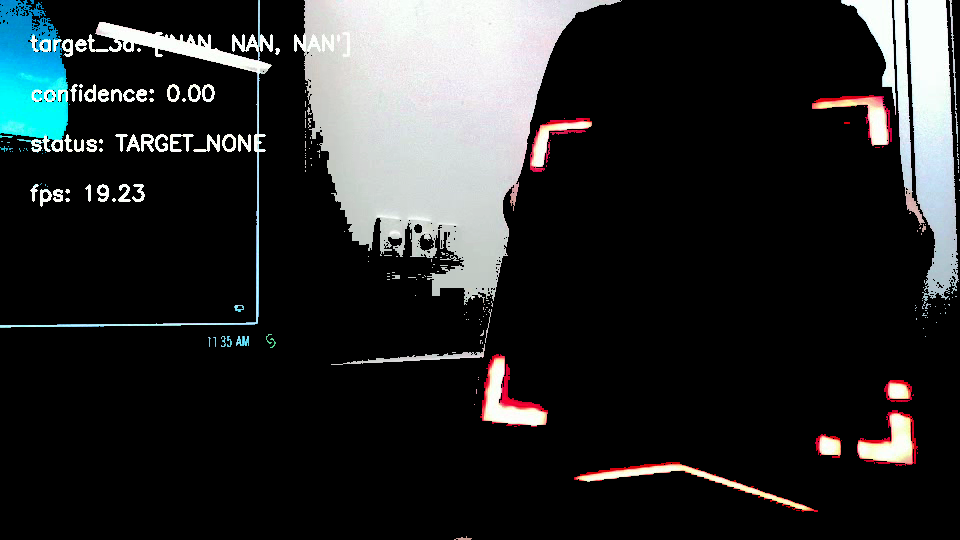
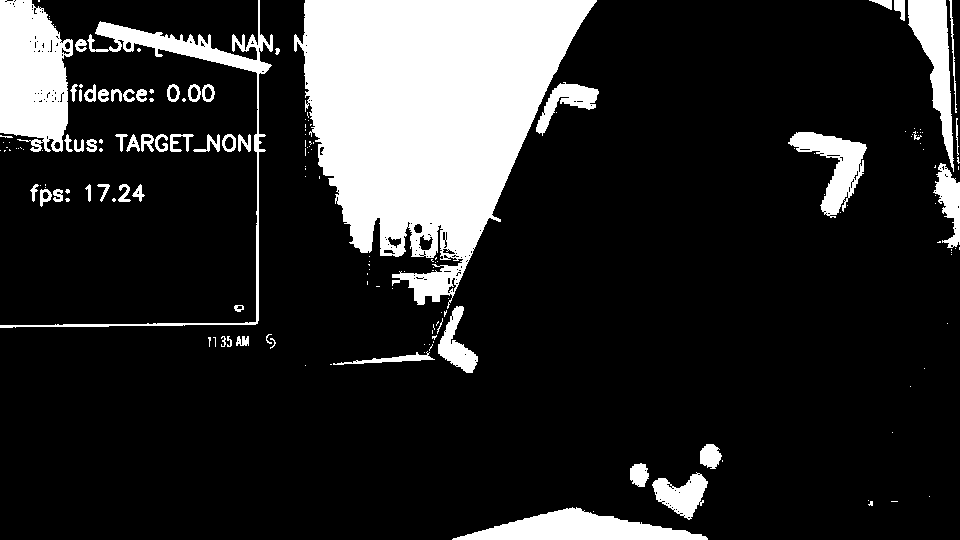
Update - Drew

diff --git a/main/subsystems/nugget_receptacle/receptacle_pose.py b/main/subsystems/nugget_receptacle/receptacle_pose.py
@@ -114,7 +114,6 @@ def find_contours_list(frame, is_grayscale=False, save_output=False): #TODO: rem
     return cv2.findContours(frame, cv2.RETR_LIST, cv2.CHAIN_APPROX_SIMPLE)
 
 
-
 def draw_center_of_mass_circles(frame, contours):
     for contour in contours:
         x, y, w, h = cv2.boundingRect(contour)
@@ -125,18 +124,21 @@ def draw_center_of_mass_circles(frame, contours):
         cx = int(moments['m10'] / moments['m00'])
         cy = int(moments['m01'] / moments['m00'])
 
-        cv2.circle(frame, (x, y),               5, (0,0,255),   1)
-        cv2.circle(frame, (cx, cy),             5, (0,255,255), 1)
-        cv2.circle(frame, (center_x, center_y), 5, (255,0,0),   1)
+        cv2.circle(frame, (x, y),               5, (0,0,255),   1) # red
+        cv2.circle(frame, (cx, cy),             8, (13,128,255), 2) # yellowish
         cv2.line(frame, (center_x, center_y), (cx, cy), (0, 255, 0), 2)
+        cv2.circle(frame, (center_x, center_y), 6, (255,100,100),   2) # blue
 
+        cv2.rectangle(frame, cv2.boundingRect(contour), (0, 0, 200), 1) 
+    
     return frame
 
-def is_l_shape(contour, max_x_percent = 0.05, max_y_percent = 0.05) -> bool:
+
+def is_l_shape(contour, min_x_percent = 0.05, min_y_percent = 0.05, or_=False) -> tuple:
     """ 
-    Returns bool on whether contour is an l shape and confidence. 
-    max_x_percent and max_y_percent are the maximum percentage of the bounding box that 
-    the center of mass can be off before it's considered an l.
+    Returns bool, x_diff_percent, y_diff_percent on whether contour is an l shape and confidence. 
+    min_x_percent and min_y_percent are the minimum percentage of the bounding box that 
+    the center of mass can be off to be considered an L shape.
     """
     #up-right bounding rectangle
     x, y, w, h = cv2.boundingRect(contour)
@@ -152,15 +154,17 @@ def is_l_shape(contour, max_x_percent = 0.05, max_y_percent = 0.05) -> bool:
     percent_off_x = (cx - center_x)/w # TODO: Maybe figure out a way to do floor division (faster?)
     percent_off_y = (cy - center_y)/h
 
-    #print(f"x={center_x}, y={center_y}, cx={cx}, cy={cy}, x_size={w}, y_size={h}")
-    print(f"x={center_x}, y={center_y}, cx is {percent_off_x*100 :.2f}% off, cy is {percent_off_y*100 :.2f}% off.")
+    if __name__ == "__main__":
+        #print(f"x={center_x}, y={center_y}, cx={cx}, cy={cy}, x_size={w}, y_size={h}")
+        print(f"x={center_x}, y={center_y}, cx is {percent_off_x*100 :.2f}% off, cy is {percent_off_y*100 :.2f}% off.")
 
-    return not((abs(percent_off_x)<=max_x_percent) and (abs(percent_off_y)<=max_y_percent))
+    is_l = (abs(percent_off_x)>min_x_percent) and (abs(percent_off_y)>min_y_percent) or (
+        (or_)
+        and ((abs(percent_off_x)>min_x_percent) or (abs(percent_off_y)>min_y_percent)))
+    return is_l, percent_off_x, percent_off_y
 
-    
 
-
-def filter_contours(contours:list, screensize=(1920,1024)):
+def filter_contours(contours:list, screensize=(1920,1024), filter_l=False):
     """ Filters a given list of contours by ones that are likely the receptacle. """
     # The below code was modified from https://stackoverflow.com/a/63934162/25598210
     contours_rtn = []
@@ -172,7 +176,7 @@ def filter_contours(contours:list, screensize=(1920,1024)):
 
         # If contour is certain shape
         # (both dimensions > 8px, at least one dimension > 10px)
-        if (w>8 and h>8) and (w>10 or h>10) and (rect_area<max_rect_area) and is_l_shape(contour):
+        if (w>8 and h>8) and (w>10 or h>10) and (rect_area<max_rect_area) and (is_l_shape(contour, or_=True)[0] or not(filter_l)):
             contours_rtn.append(contour) # Add it to the return list
 
 
@@ -244,7 +248,13 @@ def draw_corners(img, corners, imgpts):
 
 # Find the average pixel location and see how far that differs from the center of the overall bounding box
 
-def find_and_draw_contours(frame, frame_to_write_ontop_of, save_output=False, do_draw_contours=True, screensize=(1920,1024)):
+def find_and_draw_contours(
+    frame, frame_to_write_ontop_of, 
+    save_output=False, do_draw_contours=True, 
+    screensize=(1920,1024),
+    write_l_debug_circles=False,
+    save_intermediate=False
+    ):
     """
     Findds and draws contours on an image, filtering for valid and virgin contours.
     Frames are BGR. 
@@ -254,6 +264,9 @@ def find_and_draw_contours(frame, frame_to_write_ontop_of, save_output=False, do
     contours_tree, hierarchy_tree = cv2.findContours(frame, cv2.RETR_TREE, cv2.CHAIN_APPROX_SIMPLE)
     
     frame = cv2.cvtColor(frame, cv2.COLOR_GRAY2BGR)
+
+    if save_intermediate:
+        cv2.imwrite(os.path.join(LOCAL_PATH,"fadc_1_greyscale.png"), frame)
 
     #print "contours:",len(contours)
     #print "largest contour has ",len(contours[0]),"points"
@@ -294,7 +307,7 @@ def find_and_draw_contours(frame, frame_to_write_ontop_of, save_output=False, do
     #endregion oldcode
 
     virgin_contours_list = virgin_contours(contours_tree, hierarchy_tree)
-    virgin_contours_list = filter_contours(virgin_contours_list, screensize=screensize)
+    virgin_contours_list = filter_contours(virgin_contours_list, screensize=screensize, filter_l=False)
     # Dark green circles for complex contour points
     #for contour in virgin_contours_list:        
     #    draw_contour_points(frame_to_write_ontop_of, contour,color=(0,80,0))
@@ -313,28 +326,33 @@ def find_and_draw_contours(frame, frame_to_write_ontop_of, save_output=False, do
     if do_draw_contours:
         for contour in virgin_contours_list:
             # Thick red bounding boxes
-            cv2.rectangle(frame_to_write_ontop_of, cv2.boundingRect(contour), (0, 0, 200), 4) 
+            cv2.rectangle(frame_to_write_ontop_of, cv2.boundingRect(contour), (0, 0, 200), 1) 
             
             #rect = cv2.minAreaRect(contour) # Rotated (for minimum area) rectangle, red
-            #cv2.drawContours(frame_to_write_ontop_of,[np.intp(cv2.boxPoints(rect))],0,(0,0,255),1)
+            #cv2.drawContours(frame_to_write_ontop_of,[np.intp(cv2.boxPoints(rect))],0,(100,100,100),1)
             
             # Draw circles around the contour points
             draw_contour_points(frame_to_write_ontop_of, contour,color=(0,200,0))
 
         # Draw contours
         draw_contours(frame_to_write_ontop_of, virgin_contours_list,color=(255,249,130))
-    
-    # cv2.rectangle(frame_to_write_ontop_of, cv2.boundingRect(contours_tree[highest_instance[0]]), (0, 0, 255), 4)
 
+    if save_intermediate:
+        cv2.imwrite(os.path.join(LOCAL_PATH,"fadc_2_virgin_contours_before_l_filter.png"), frame_to_write_ontop_of)
+        cv2.imwrite(os.path.join(LOCAL_PATH,"fadc_2_before_l_COM_Circles.png"), draw_center_of_mass_circles(frame.copy(), virgin_contours_list))
 
-    #draw_contours(frame_original, contours_tree,color=(255,0,255))
+    # Filter contours once more
+    virgin_contours_list = filter_contours(virgin_contours_list, screensize=screensize, filter_l=True)
     
     if save_output:
         print(f" Found {len(contours_tree)} total contours.")
         print(f" Found {len(virgin_contours_list)} good contours.")
-        frame_to_write_ontop_of = draw_center_of_mass_circles(frame, virgin_contours_list)
         #print("largest contour has ",len(contours_tree[highest_instance[0]]),"points")
         cv2.imwrite(os.path.join(LOCAL_PATH,"contours.png"), frame_to_write_ontop_of)
+        cv2.imwrite(os.path.join(LOCAL_PATH,"COM_Circles.png"), draw_center_of_mass_circles(frame.copy(), virgin_contours_list))
+
+    if write_l_debug_circles:
+        frame_to_write_ontop_of = draw_center_of_mass_circles(frame_to_write_ontop_of, virgin_contours_list)
 
 #endregion Contours Stuff
     
@@ -353,6 +371,7 @@ def analyze_video(video_path, save_output=False,save_raw=False):
 
     print("Now doing video...")
 
+    #region setup
     cap = cv2.VideoCapture(video_path)
     fps = cap.get(cv2.CAP_PROP_FPS)
     width = int(cap.get(3))
@@ -378,6 +397,7 @@ def analyze_video(video_path, save_output=False,save_raw=False):
     )
 
     pos_frame = cap.get(1) #cv2.CV_CAP_PROP_POS_FRAMES
+    #endregion setup
 
     num_frames=0
 
@@ -392,7 +412,7 @@ def analyze_video(video_path, save_output=False,save_raw=False):
             
             new_frame = clean_image(filter_binarize(frame, save_output=save_output, save_raw=save_raw)[0])
             
-            find_and_draw_contours(new_frame, frame, save_output=False)
+            find_and_draw_contours(new_frame, frame, save_output=False, screensize=(width, height))
             
             writer_ontop.write(frame)
             writer.write(new_frame)
@@ -409,7 +429,7 @@ def analyze_video(video_path, save_output=False,save_raw=False):
 
 
 
-def analyze_frame(frame, save_output=False, save_raw=False):
+def analyze_frame(frame, save_output=False, save_raw=False, write_l_debug_circles=True):
     """ Gets most likely pose of nugget from frame. """
 
     height, width, channels = frame.shape
@@ -417,7 +437,9 @@ def analyze_frame(frame, save_output=False, save_raw=False):
     
     new_frame = clean_image(filter_binarize(frame, save_output=save_output, save_raw=save_raw)[0])
     
-    find_and_draw_contours(new_frame, frame, save_output=False, screensize=screensize)
+    find_and_draw_contours(new_frame, new_frame, save_output=save_output, screensize=screensize, write_l_debug_circles=write_l_debug_circles, save_intermediate=True)
+
+    return new_frame
 
 
 #endregion Functions
@@ -461,16 +483,9 @@ if __name__ == "__main__":
 
     else:
         print("Analyzing frame...")
-        frame = cv2.imread(os.path.join(LOCAL_PATH,"raw_testbench.png"))
+        #frame = cv2.imread(os.path.join(LOCAL_PATH,"raw_testbench.png"))
+        frame = cv2.imread(os.path.join(LOCAL_PATH,"raw_testbench_3.png"))
         #frame = cv2.imread(os.path.join(LOCAL_PATH,"raw_testbench_cropped.PNG"))
-        
-        cv2.imwrite(os.path.join(LOCAL_PATH,"temp.png"), frame)
-        
-        # Binarize
-        frame, mask = filter_binarize(frame,save_output=True)
-        
-        #print(frame)
-        frame = clean_image(frame, save_output=True)
-        frame = find_and_draw_contours(frame, frame, save_output=True)
+        analyze_frame(frame, save_output=True, save_raw=True, write_l_debug_circles=True)
 
 #endregion Procedural

diff --git a/main/main.py b/main/main.py
@@ -21,7 +21,7 @@ atexit.register(log.when_iteration_stops) # e.g. ctrl+C will trigger "when_itera
 for runtime.frame_number, runtime.color_image , runtime.depth_image in video_stream.frames():
 
     # TODO: Delete this before prod! This is for testing only, and we should find a better way to integrate nugget code.
-    #nugget_pose = nugg_pose.analyze_frame(runtime.color_image, save_output=True, save_raw=True)
+    #runtime.color_image = nugg_pose.analyze_frame(runtime.color_image, save_output=False, save_raw=False, write_l_debug_circles=True)
 
     if synchronized_debug: t1 = time_synchronized()
     model.when_frame_arrives() # Get the bounding boxes
